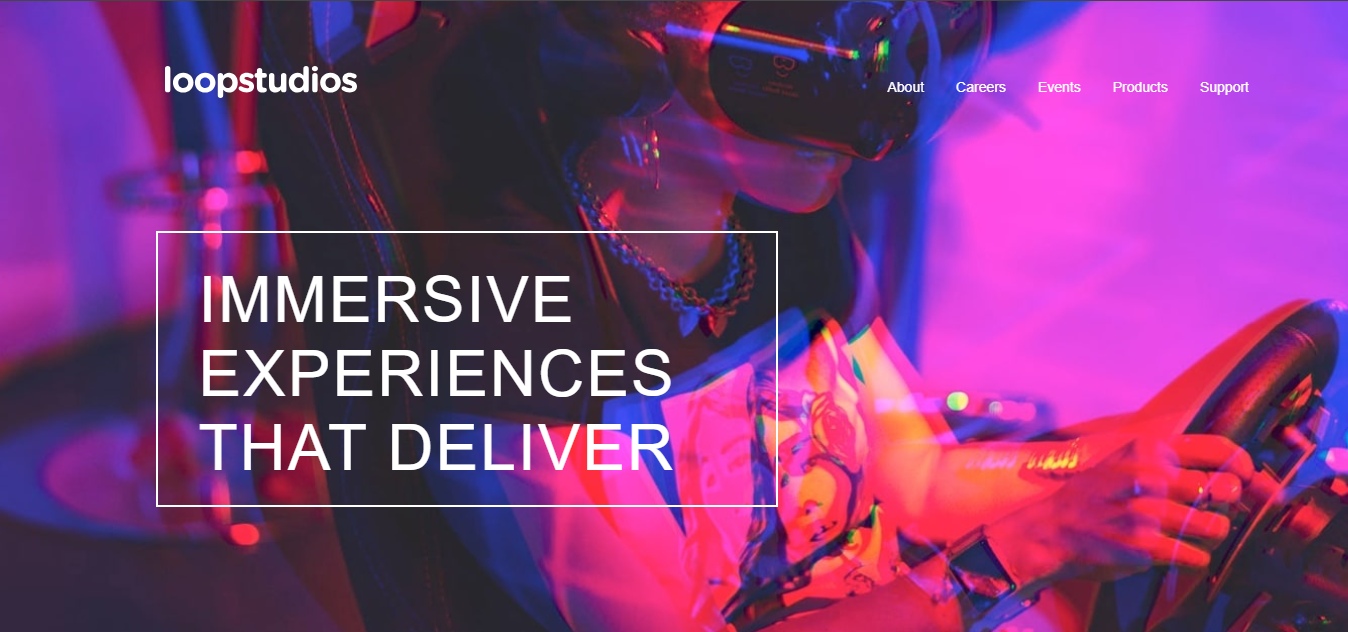
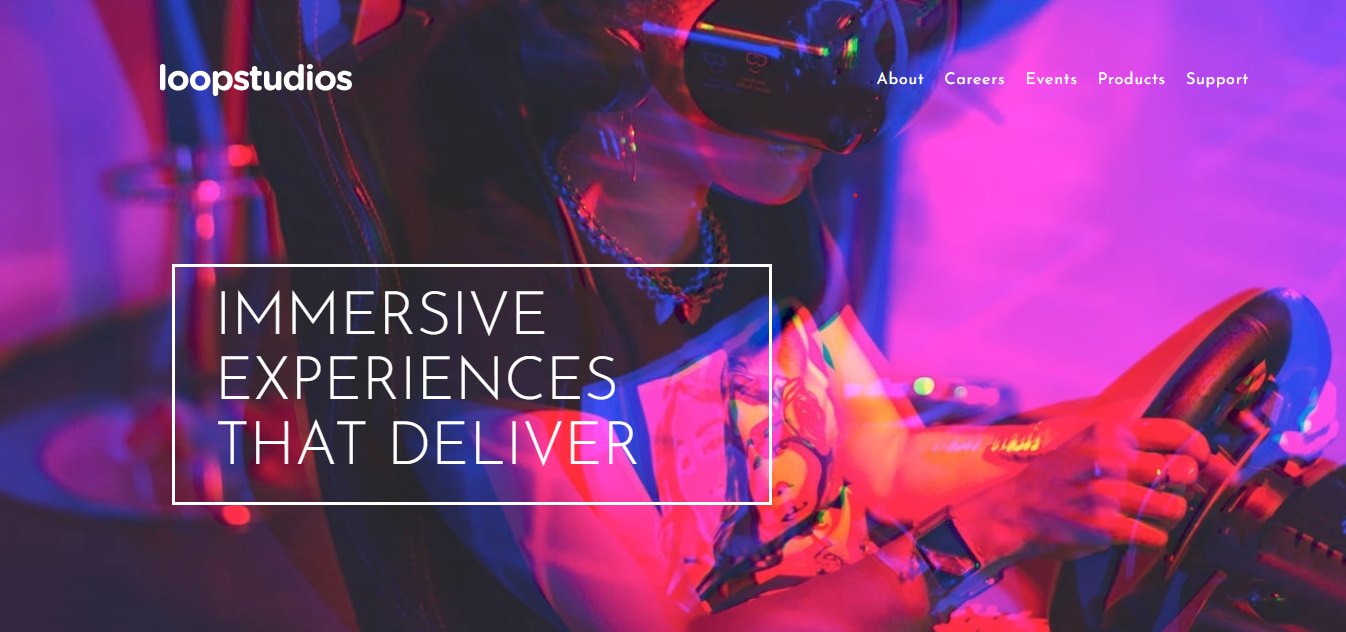
Adjust layout

diff --git a/src/components/HeroSection.tsx b/src/components/HeroSection.tsx
@@ -4,8 +4,8 @@ const HeroSection = () => {
   return (
     <section className="h-full w-full overflow-hidden bg-[url(/assets/mobile/image-hero.jpg)] bg-cover md:bg-[url(/assets/desktop/image-hero.jpg)]">
       <NavBar />
-      <div className="flex items-center justify-center pt-30  md:justify-start md:pl-14">
-        <h1 className="font-subHeading li pr-auto mx-4 w-[416px] border-3 border-white p-5 text-[39px] font-extralight text-white uppercase md:w-[600px] md:pr-auto md:text-[60px] md:font-light md:px-10 ">
+      <div className="flex items-center justify-center pt-30  md:justify-start md:pl-14 lg:ml-25">
+        <h1 className="font-subHeading li pr-auto mx-4 w-[416px] border-3 border-white p-5 text-[39px] font-extralight text-white uppercase md:w-[600px] md:pr-auto md:text-[60px] md:font-light md:px-10 md:leading-[65px]">
           immersive experiences that deliver
         </h1>
       </div>

diff --git a/src/components/NavBar.tsx b/src/components/NavBar.tsx
@@ -26,7 +26,7 @@ const NavBar = () => {
   };
 
   return (
-    <nav className="z-50 flex w-full items-center justify-between px-8 py-12 md:px-18">
+    <nav className="z-50 flex w-full items-center justify-between px-8 py-12 md:px-18 lg:pl-40 lg:pr-25 lg:pt-16">
       <img src={logo} alt="Logo" className="z-40" />
       <img
         src={isOpen ? close : hamburger}
